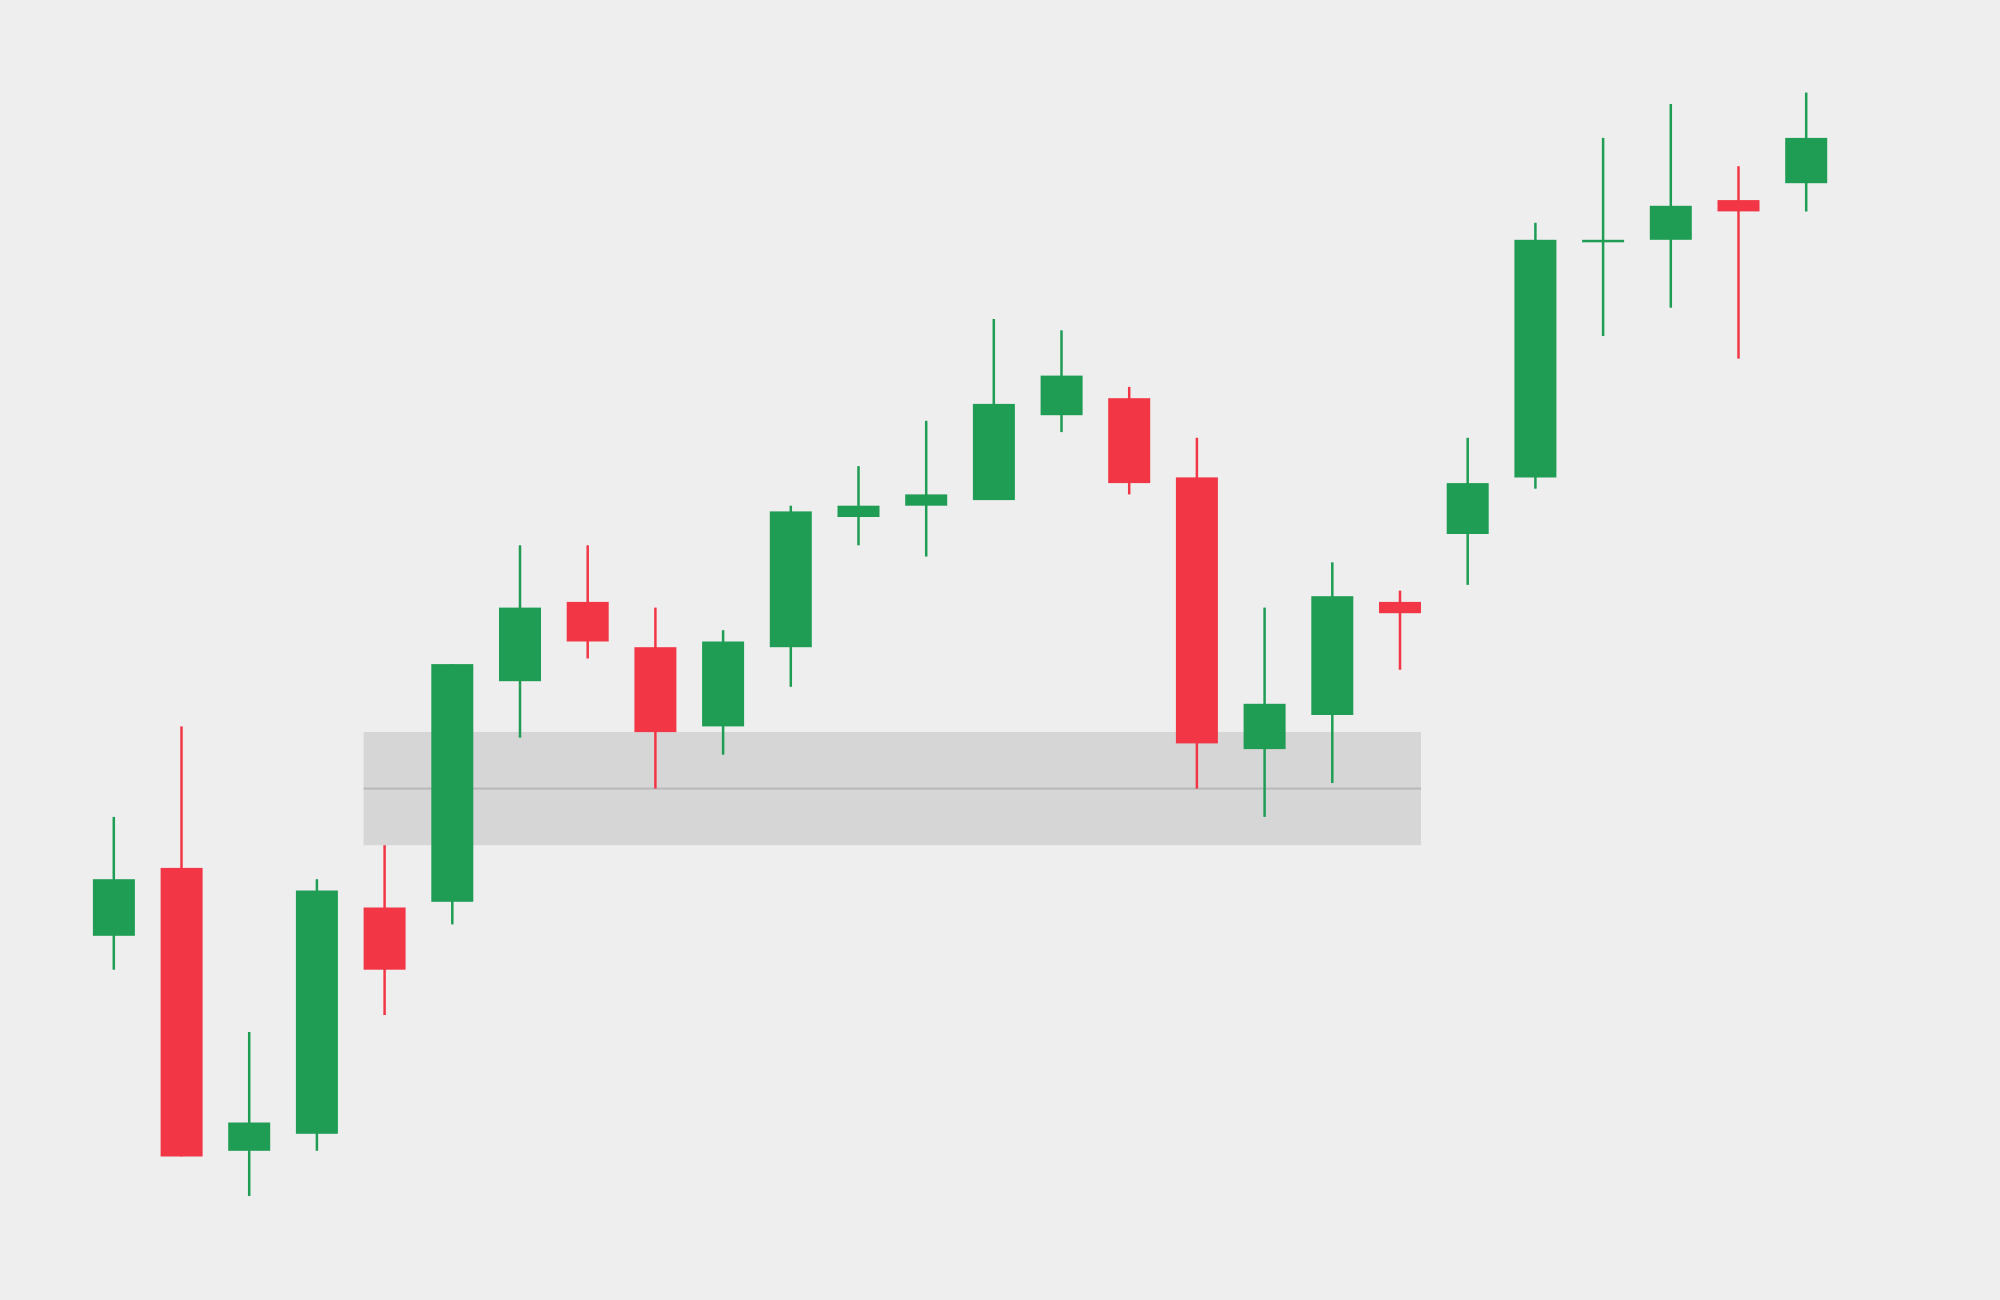
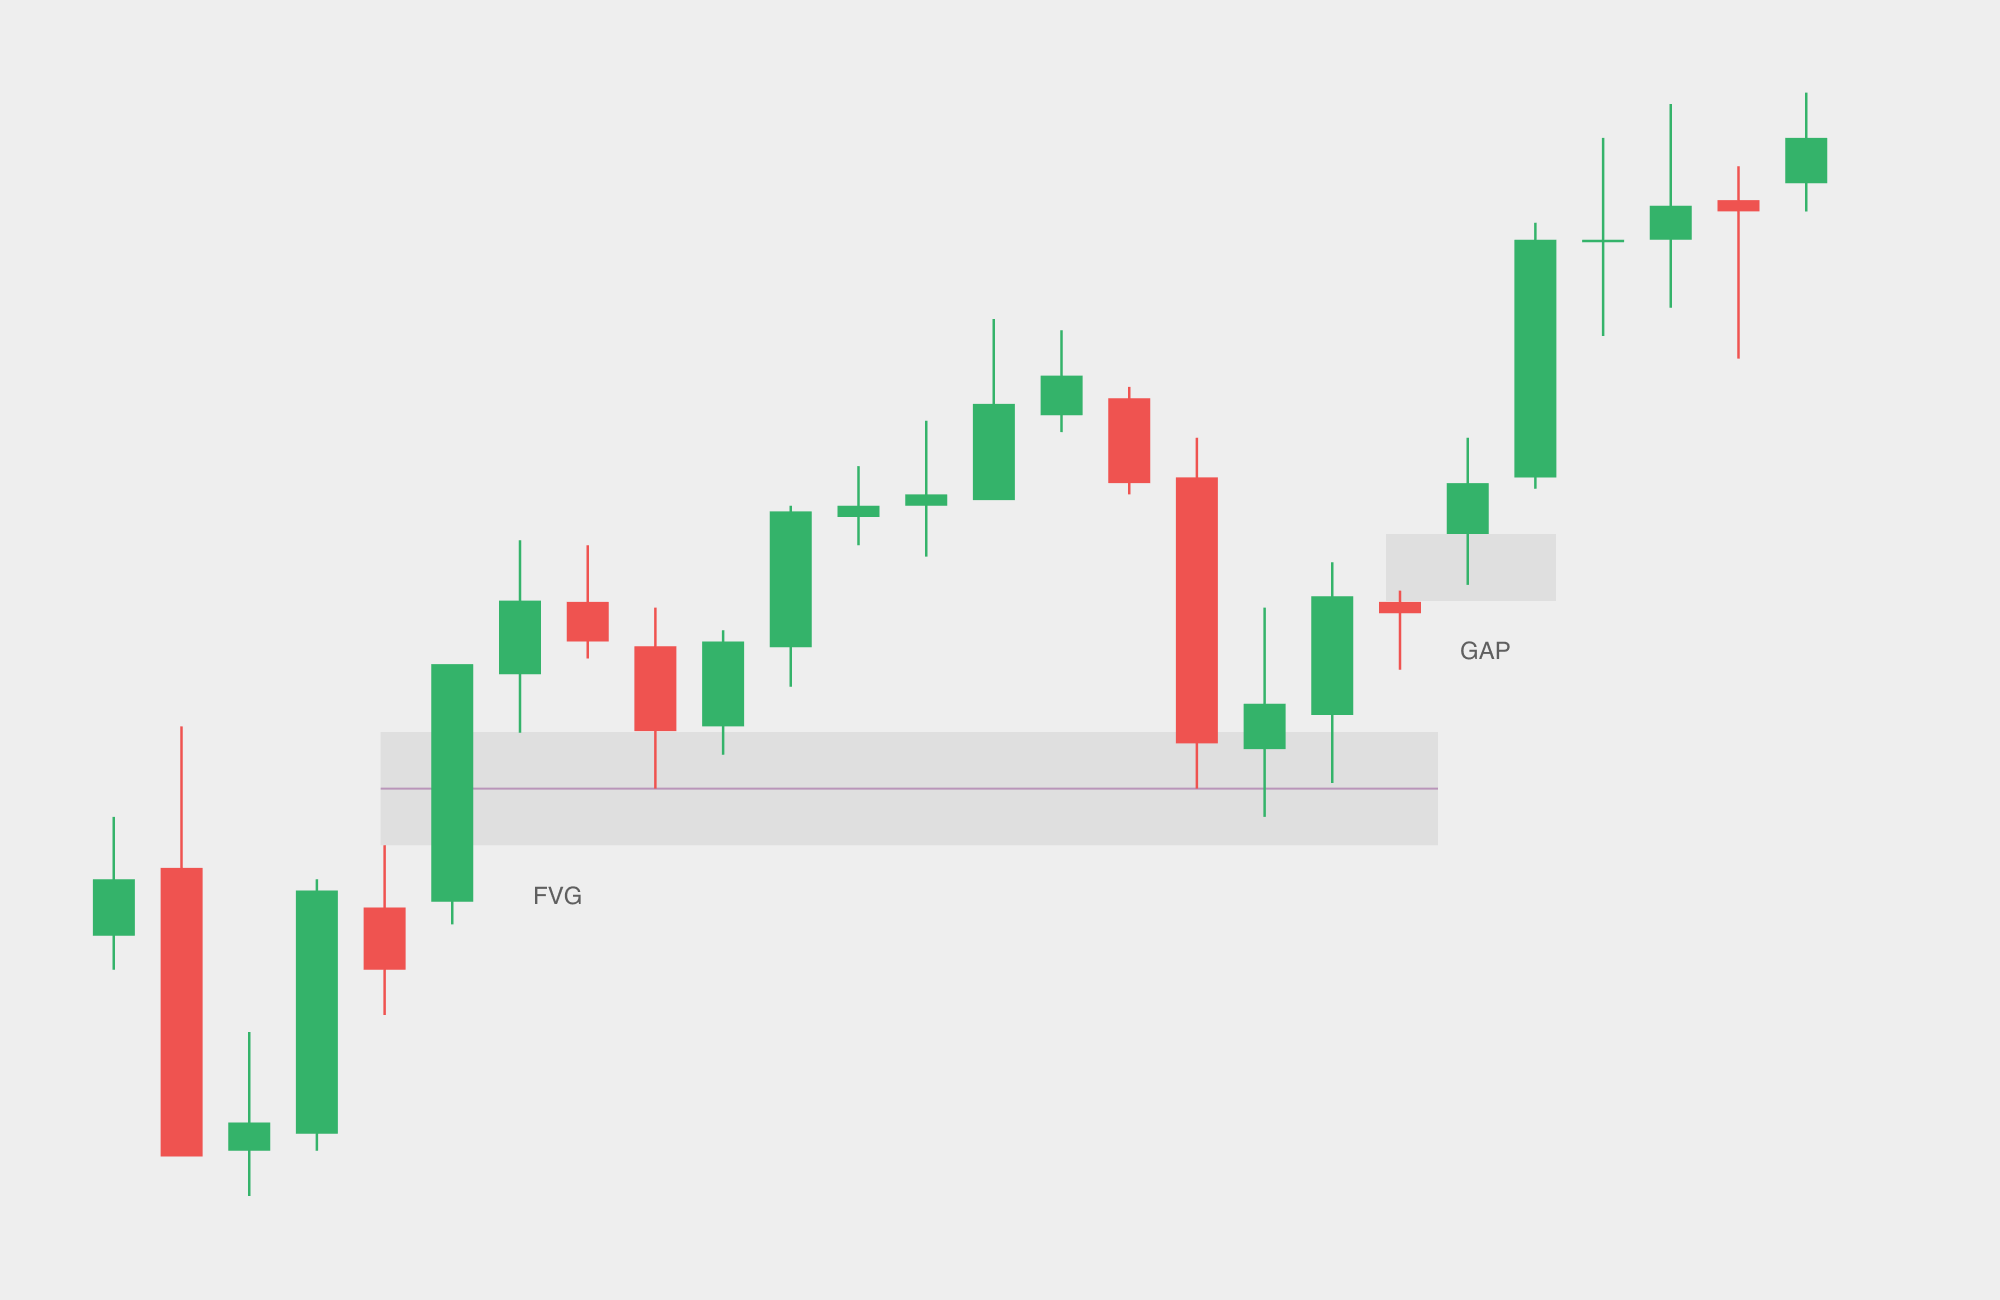
changed text

diff --git a/src/content/glossary/HTF-LTF.md b/src/content/glossary/HTF-LTF.md
@@ -1,0 +1,15 @@
+---
+term: "HTF/LTF"
+en: "Higher/Lower Timeframe"
+d: "любой старший/младший таймфрейм относительно текущего."
+images:
+  - src: /glossary/htf-ltf-1.png
+---
+Higher/Lower Timeframe – любой старший/младший таймфрейм относительно текущего.
+
+### Примеры
+Если текущий таймфрейм — 1h:
+- HTF — 4h, 1D, 1W, 1M,
+- LTF — 15m, 5m, 1m.
+
+В отличие от X/X-1 TF, HTF/LTF не привязан к соседнему таймфрейму: для 1h и 4h, и 1D одинаково являются HTF, а 15m и 1m — LTF.

diff --git a/src/content/glossary/HTV-LTV.md b/src/content/glossary/HTV-LTV.md
@@ -1,6 +1,6 @@
 ---
 term: "HTV/LTV"
-en: "High / Low Trading Volume"
+en: "High/Low Trading Volume"
 d: "зоны высокого (HTV) и низкого (LTV) торгового объёма. HTV — область, где цена долго торговалась и набрала объём; LTV — участок, который цена прошла быстро, оставив неэффективность."
 aliases: ["LTV"]
 ---

diff --git a/src/content/glossary/F.md b/src/content/glossary/F.md
@@ -1,6 +1,6 @@
 ---
 term: "F"
-en: "Fractal"
+en: "Fractal High/Low"
 d: "элемент Price Action: локальный экстремум, где одна сторона перехватила инициативу."
 aliases: ["Fractal", "Fractal High/Low"]
 images:
